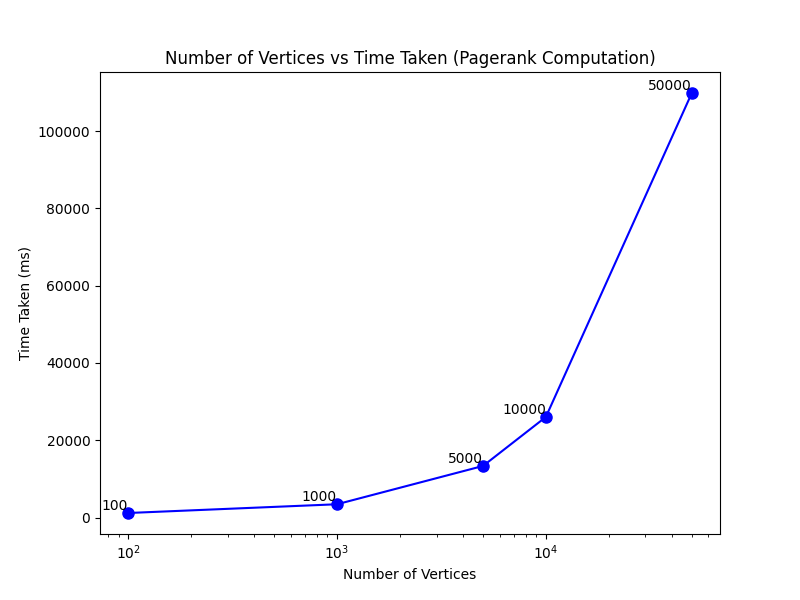
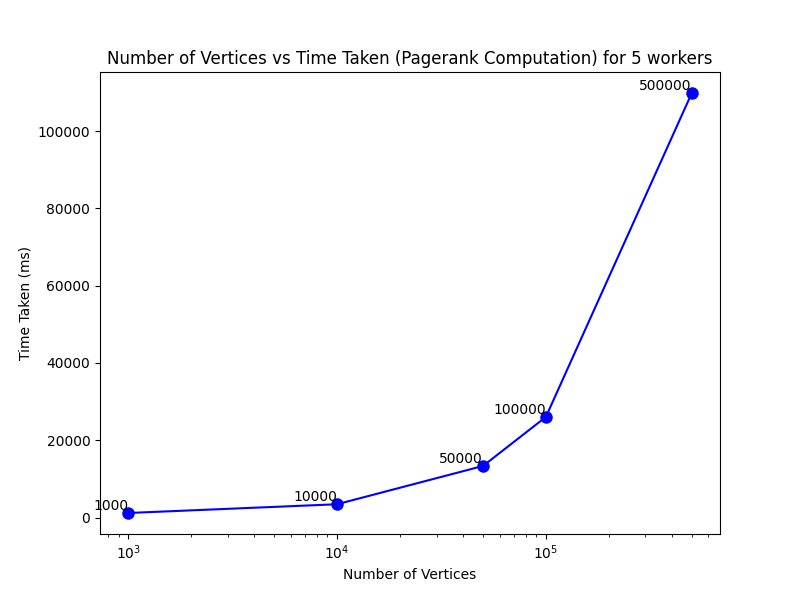
added plots

diff --git a/plots/plot.py b/plots/plot.py
@@ -1,25 +1,45 @@
+# import matplotlib.pyplot as plt
+
+# # Given data
+# vertices = [1000, 10000, 50000, 100000, 500000]
+# time_taken = [1168, 3431, 13337, 26008, 109847]
+
+# # Plotting the graph with lines and markers
+# plt.figure(figsize=(8, 6))
+# plt.plot(vertices, time_taken, marker='o', linestyle='-', color='b', markersize=8)
+# plt.title('Number of Vertices vs Time Taken (Pagerank Computation) for 5 workers')
+# plt.xlabel('Number of Vertices')
+# plt.ylabel('Time Taken (ms)')
+# # plt.grid(True)
+# plt.xscale('log')  # Set x-axis to logarithmic scale if vertices are widely spaced
+
+# # Marking each x-coordinate
+# for i in range(len(vertices)):
+#     plt.text(vertices[i], time_taken[i], str(vertices[i]), ha='right', va='bottom')
+
+# # Show the plot
+# plt.show()
+
 import matplotlib.pyplot as plt
 
 # Given data
-vertices = [100, 1000, 5000, 10000, 50000]
-time_taken = [1168, 3431, 13337, 26008, 109847]
+workers = [2, 3, 4, 5]
+time_taken = [17938, 14928, 13889, 13029]
 
-# Plotting the graph with lines and markers
+# Plotting the graph
 plt.figure(figsize=(8, 6))
-plt.plot(vertices, time_taken, marker='o', linestyle='-', color='b', markersize=8)
-plt.title('Number of Vertices vs Time Taken (Pagerank Computation)')
-plt.xlabel('Number of Vertices')
+plt.plot(workers, time_taken, marker='o', linestyle='-', color='b', markersize=8)
+plt.title('Number of Workers vs Time Taken (Pagerank for 50000 vertices)')
+plt.xlabel('Number of Workers')
 plt.ylabel('Time Taken (ms)')
 # plt.grid(True)
-plt.xscale('log')  # Set x-axis to logarithmic scale if vertices are widely spaced
+
+# Set x-axis ticks to only display the provided worker values
+plt.xticks(workers)
 
 # Marking each x-coordinate
-for i in range(len(vertices)):
-    plt.text(vertices[i], time_taken[i], str(vertices[i]), ha='right', va='bottom')
+# for i in range(len(workers)):
+#     plt.text(workers[i], time_taken[i], str(workers[i]), ha='right', va='bottom')
 
 # Show the plot
-<<<<<<< Updated upstream
 plt.show()
-=======
-plt.show()
->>>>>>> Stashed changes

diff --git a/clear.py b/clear.py
@@ -11,8 +11,4 @@ if os.path.exists(folder_path) and os.path.isdir(folder_path):
     except Exception as e:
         print(f"Failed to delete folder contents: {e}")
 else:
-<<<<<<< Updated upstream
     print("Folder does not exist or is not a directory.")
-=======
-    print("Folder does not exist or is not a directory.")
->>>>>>> Stashed changes

diff --git a/report.md b/report.md
@@ -153,25 +153,25 @@ This fault-tolerance strategy aims to maintain system resilience in the face of 
 
 ### C. RESULTS AND CHALLENGES
 
-1. **Total Runtime vs Number of Vertices in Input Graph for Page Rank Computation using Pregel using 6 workers**
+1. **Total Runtime vs Number of Vertices in Input Graph for Page Rank Computation using Pregel using 5 workers**
 
 The following plot illustrates the relationship between the total runtime and the number of vertices in the input graph for the Page Rank computation using Pregel. The data represents the computational time required for different sizes of input graphs used in the Page Rank algorithm. The x-axis represents the number of vertices in the graph, while the y-axis shows the total runtime in milliseconds. The plot highlights how the runtime varies concerning the graph's size, providing insights into the computational performance of the Page Rank algorithm with varying input graph sizes.
 
 ![](plots/vertices_vs_time.png)
 
-**Observation**: In our observation, a noticeable trend emerges as the runtime escalates in conjunction with the increasing number of vertices in the input graph, while employing 6 worker processes. Notably, the computational bottleneck did not stem from the `compute` function executed on each vertex. Instead, the primary impediment to computational efficiency was the inter-worker communication subsequent to each superstep. As the volume of vertices within the input dataset expanded, the temporal resources allocated to managing communication and message passing substantially increased.
+**Observation**: In our observation, a noticeable trend emerges as the runtime escalates in conjunction with the increasing number of vertices in the input graph, while employing 5 worker processes. Notably, the computational bottleneck did not stem from the `compute` function executed on each vertex. Instead, the primary impediment to computational efficiency was the inter-worker communication subsequent to each superstep. As the volume of vertices within the input dataset expanded, the temporal resources allocated to managing communication and message passing substantially increased.
 
 The orchestration of message transfers via Redis, while integral to our implementation, posed challenges in emulating the precise outcomes outlined in the official Pregel model. Within a multi-machine framework, messages are dispatched asynchronously, facilitating concurrent computation and communication overlap, as well as batching, while ensuring their delivery prior to the termination of the superstep. However, within our singular machine implementation, managing the intricacies of message transfers presented a non-trivial task.
 
 Our implementation's core architecture and principles remain in line with the Pregel paper, ensuring that we adhere to its fundamental concepts while adapting to the specific requirements of our single-machine environment.
 
-2. **Total Runtime vs Number of Workers for Page Rank Computation using Pregel with 5000 Vertices**
+2. **Total Runtime vs Number of Workers for Page Rank Computation using Pregel with 50000 Vertices**
 
-The presented plot exhibits the correlation between the total runtime and the number of workers employed for the Page Rank computation using Pregel when the input graph contains 5000 vertices. This graphical representation demonstrates the relationship between the computational time and the variation in the number of workers involved in the execution of the Page Rank algorithm. The x-axis represents the number of workers utilized in the computation, while the y-axis displays the total runtime in milliseconds. The plot serves to elucidate the impact of altering the workforce on the computational efficiency of the Page Rank algorithm specifically for an input graph consisting of 5000 vertices.
+The presented plot exhibits the correlation between the total runtime and the number of workers employed for the Page Rank computation using Pregel when the input graph contains 50000 vertices. This graphical representation demonstrates the relationship between the computational time and the variation in the number of workers involved in the execution of the Page Rank algorithm. The x-axis represents the number of workers utilized in the computation, while the y-axis displays the total runtime in milliseconds. The plot serves to elucidate the impact of altering the workforce on the computational efficiency of the Page Rank algorithm specifically for an input graph consisting of 50000 vertices.
 
 ![](plots/workers_vs_time.png)
 
-**Observation**: The depicted trend demonstrates a clear inverse relationship between the total runtime and the number of workers utilized in the Page Rank computation using Pregel with an input graph containing 5000 vertices. As the number of workers increases, the total runtime of the computation decreases. This decline in runtime is a desirable outcome, signifying the advantage of distributing the workload among multiple workers, thus enabling concurrent processing.
+**Observation**: The depicted trend demonstrates a clear inverse relationship between the total runtime and the number of workers utilized in the Page Rank computation using Pregel with an input graph containing 50000 vertices. As the number of workers increases, the total runtime of the computation decreases. This decline in runtime is a desirable outcome, signifying the advantage of distributing the workload among multiple workers, thus enabling concurrent processing.
 
 The reduction in total runtime with an increased number of workers signifies enhanced parallelism, allowing tasks to be executed concurrently. With more workers, each process is assigned a smaller partition, enabling them to handle tasks more efficiently in parallel.
 
